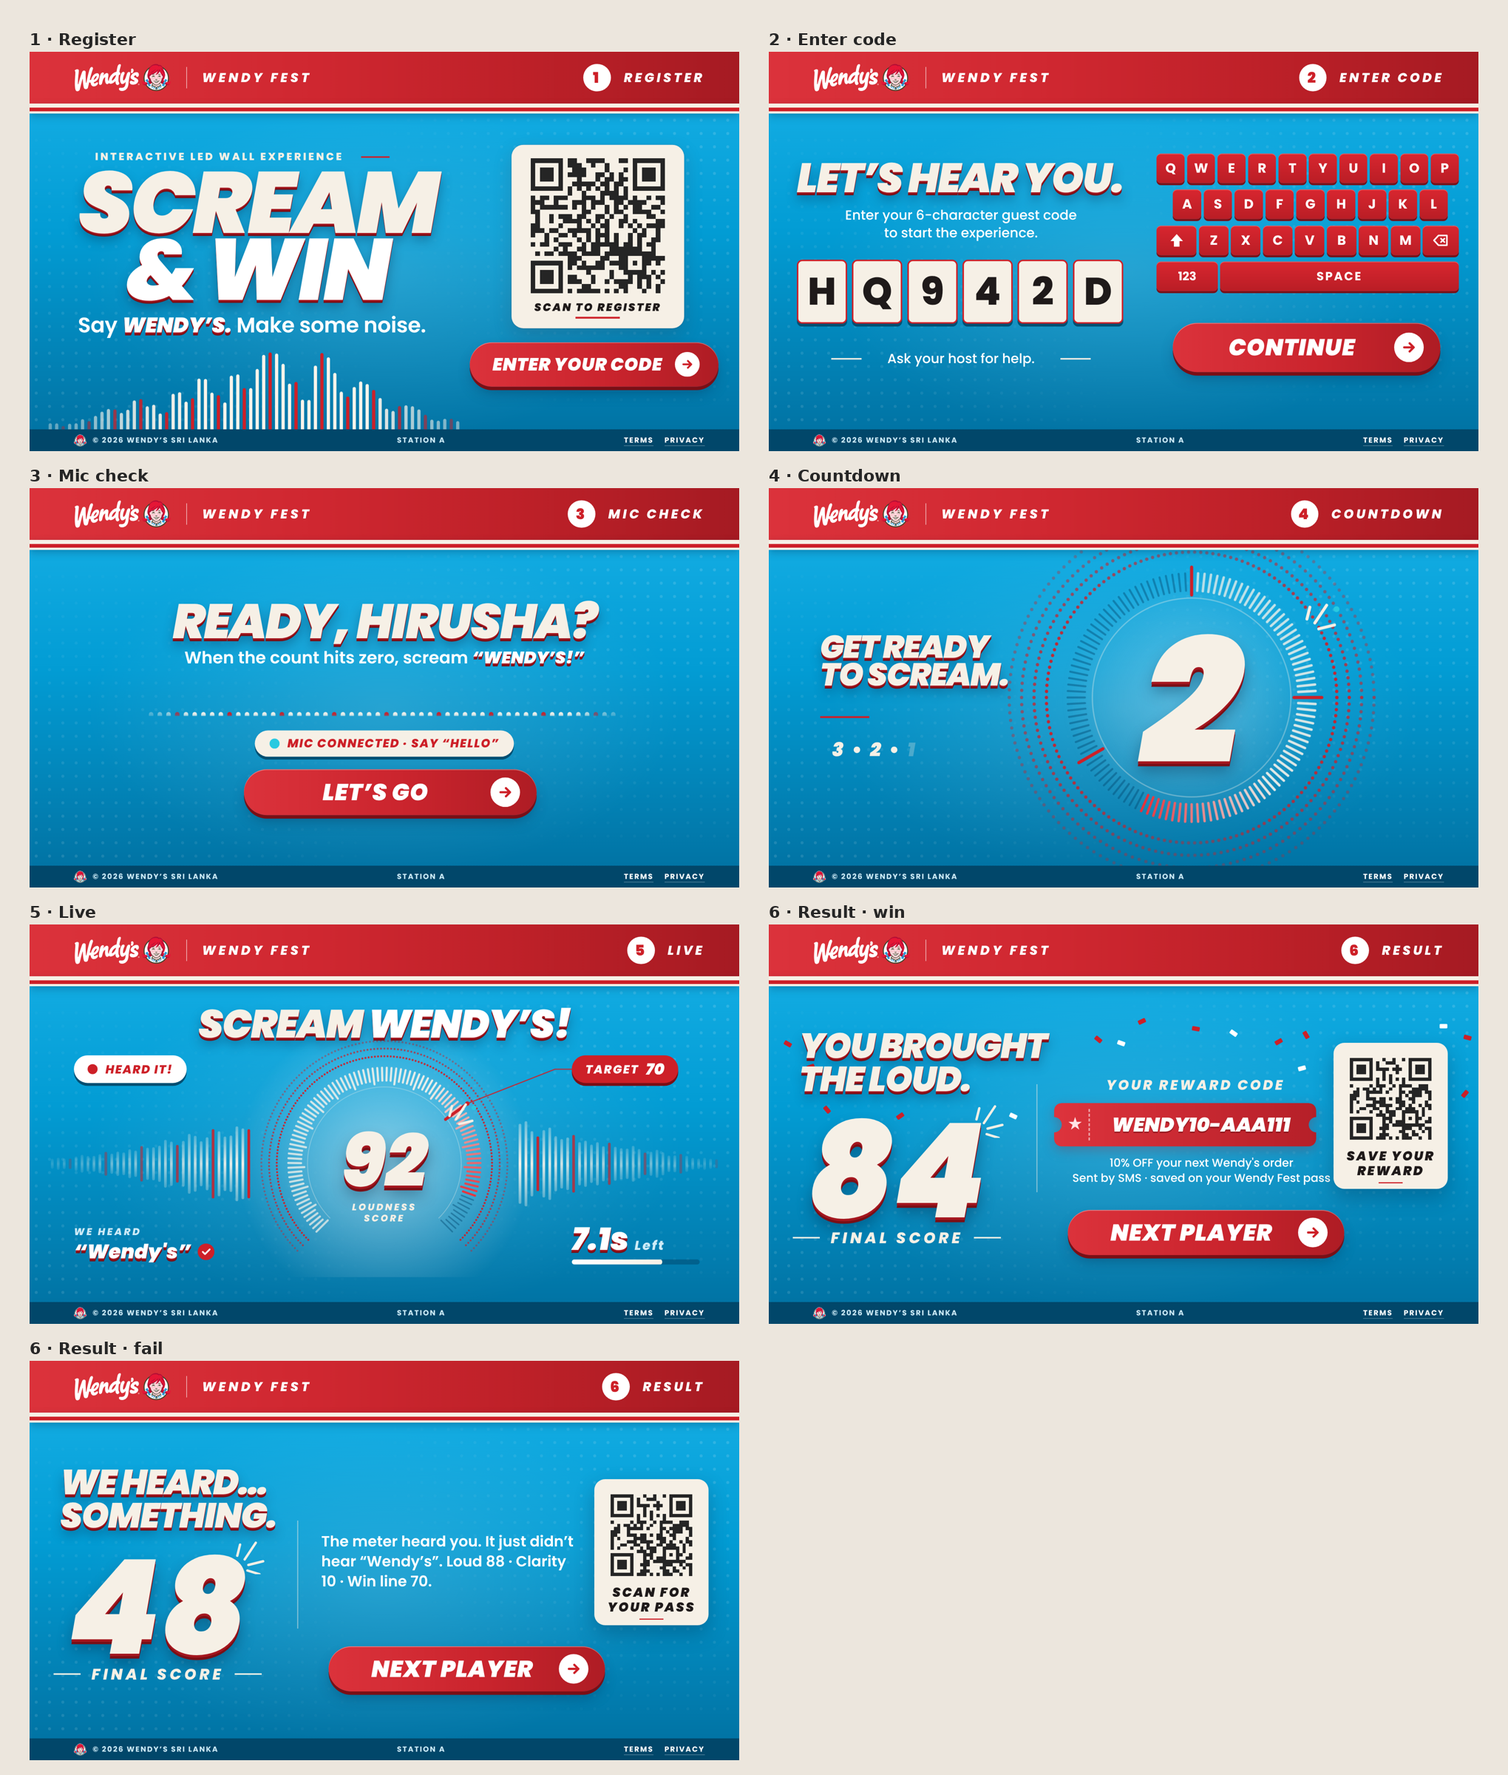
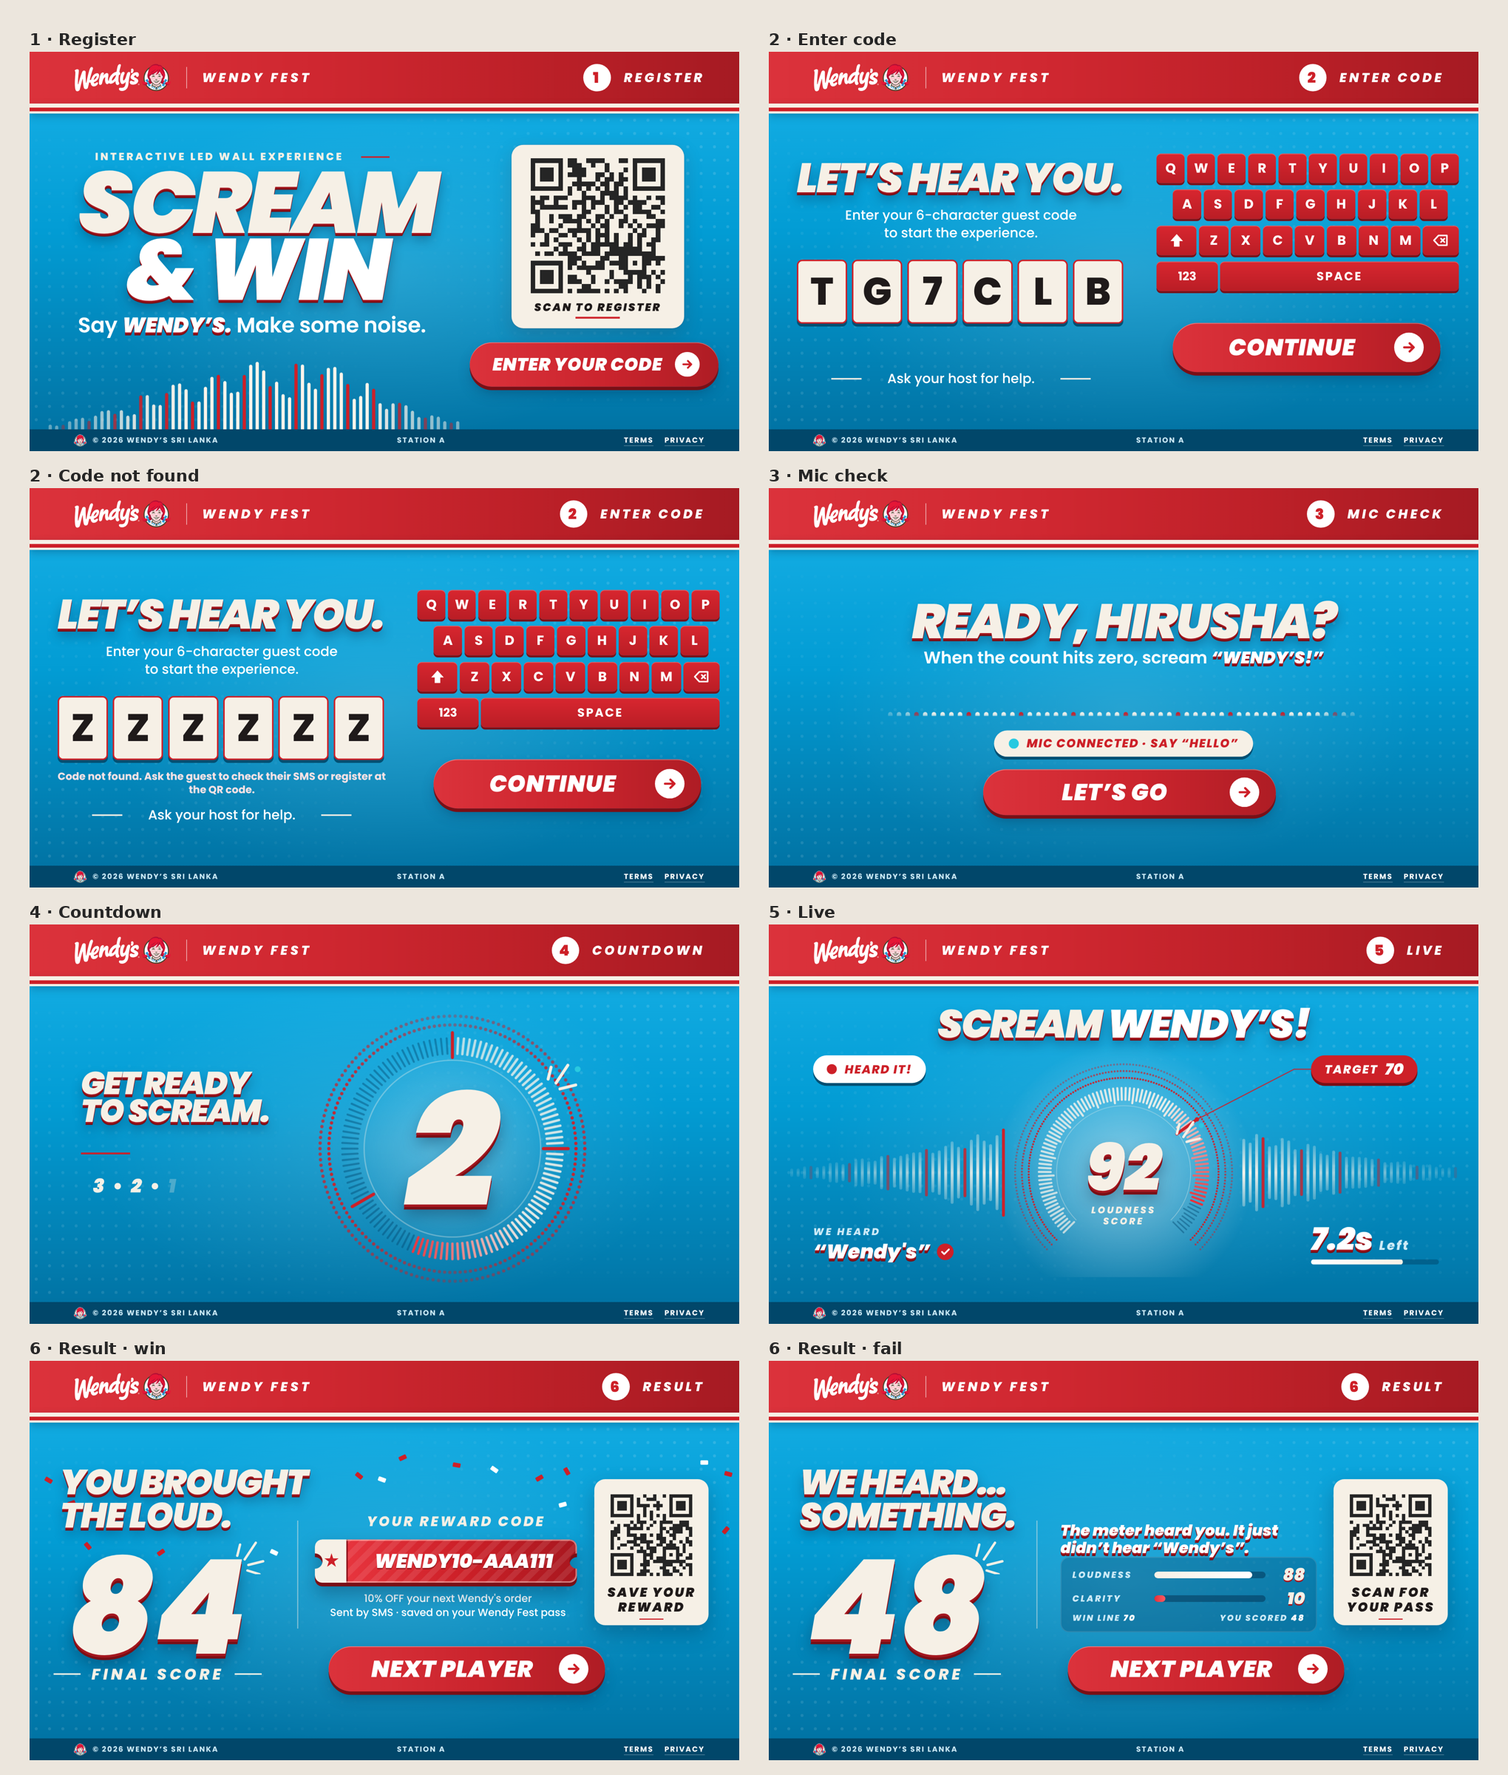
Retro Blue: spacing fixes (code message row, smaller lower gauges), result breakdown with loudness/clarity meters, colourful reward ticket with stub, stripes and shine
Claude-Session: https://claude.ai/code/session_015MHPvZ3kkn8jw5YatKY7r4

diff --git a/public/kiosk/scream-cream.html b/public/kiosk/scream-cream.html
@@ -89,8 +89,8 @@ body { margin:0; background:var(--cream); color:var(--ink); font-family:Poppins,
 .boxes i { width:calc(102 * var(--u)); height:calc(130 * var(--u)); border-radius:calc(11 * var(--u)); background:#fff; border:calc(3 * var(--u)) solid var(--red); color:#1F1A1A; display:grid; place-items:center; font:800 calc(78 * var(--u))/1 Poppins, sans-serif; font-style:normal; box-shadow:0 calc(4 * var(--u)) calc(10 * var(--u)) rgba(205,32,40,.08); }
 .boxes i.cur { box-shadow:0 0 0 calc(5 * var(--u)) rgba(205,32,40,.18); }
 .boxes i.err { animation:shake .4s; background:var(--blush); }
-#s-code .msg { left:calc(57 * var(--u)); width:calc(666 * var(--u)); top:calc(405 * var(--u)); text-align:center; font:700 calc(24 * var(--u))/1 Poppins, sans-serif; color:var(--red); min-height:0; }
-#s-code .ask { left:calc(57 * var(--u)); width:calc(666 * var(--u)); top:calc(452 * var(--u)); font:500 calc(27 * var(--u))/1 Poppins, sans-serif; color:#1F1A1A; gap:calc(52 * var(--u)); }
+#s-code .msg { left:calc(57 * var(--u)); width:calc(666 * var(--u)); top:calc(414 * var(--u)); text-align:center; font:700 calc(21 * var(--u))/1.3 Poppins, sans-serif; color:var(--red); min-height:0; }
+#s-code .ask { left:calc(57 * var(--u)); width:calc(666 * var(--u)); top:calc(492 * var(--u)); font:500 calc(27 * var(--u))/1 Poppins, sans-serif; color:#1F1A1A; gap:calc(52 * var(--u)); }
 #s-code .ask::before, #s-code .ask::after { width:calc(62 * var(--u)); }
 .kbd { position:absolute; left:calc(787 * var(--u)); top:calc(49 * var(--u)); width:calc(613 * var(--u)); display:grid; gap:calc(13 * var(--u)); }
 .kbd .krow { display:flex; gap:calc(5 * var(--u)); height:calc(60 * var(--u)); }
@@ -114,14 +114,14 @@ body { margin:0; background:var(--cream); color:var(--ink); font-family:Poppins,
 #go-count .rule { left:calc(104 * var(--u)); top:calc(277 * var(--u)); width:calc(100 * var(--u)); height:calc(4 * var(--u)); background:var(--red); }
 .dots { position:absolute; left:calc(128 * var(--u)); top:calc(325 * var(--u)); font:italic 900 calc(39 * var(--u))/1 Poppins, sans-serif; color:#1F1A1A; letter-spacing:.06em; white-space:nowrap; }
 .dots span { opacity:.28; transition:opacity .2s; } .dots span.on { opacity:1; } .dots em { font-style:normal; margin:0 calc(14 * var(--u)); }
-#ring-count { left:calc(458 * var(--u)); top:calc(-161 * var(--u)); width:calc(800 * var(--u)); height:calc(800 * var(--u)); }
-#cnt { left:calc(558 * var(--u)); top:calc(66 * var(--u)); width:calc(600 * var(--u)); text-align:center; font:italic 900 calc(360 * var(--u))/1 Poppins, sans-serif; color:var(--red); text-shadow:0 calc(8 * var(--u)) 0 #8E1219, 0 calc(18 * var(--u)) calc(30 * var(--u)) rgba(120,20,30,.18); }
+#ring-count { left:calc(458 * var(--u)); top:calc(-131 * var(--u)); width:calc(800 * var(--u)); height:calc(800 * var(--u)); }
+#cnt { left:calc(558 * var(--u)); top:calc(110 * var(--u)); width:calc(600 * var(--u)); text-align:center; font:italic 900 calc(325 * var(--u))/1 Poppins, sans-serif; color:var(--red); text-shadow:0 calc(8 * var(--u)) 0 #8E1219, 0 calc(18 * var(--u)) calc(30 * var(--u)) rgba(120,20,30,.18); }
 /* live */
 #go-meter { height:calc(560 * var(--u)); }
 #live-cv { left:0; top:0; width:calc(1440 * var(--u)); height:calc(560 * var(--u)); }
 #go-meter .crow { top:calc(6 * var(--u)); }
-#gauge-num { left:calc(560 * var(--u)); width:calc(320 * var(--u)); top:calc(248 * var(--u)); text-align:center; font:italic 900 calc(150 * var(--u))/1 Poppins, sans-serif; color:var(--red); text-shadow:0 calc(4 * var(--u)) 0 #8E1219, 0 calc(8 * var(--u)) 0 #5E0B10, 0 calc(16 * var(--u)) calc(28 * var(--u)) rgba(150,20,30,.25); }
-#go-meter .lbl { left:calc(570 * var(--u)); width:calc(300 * var(--u)); top:calc(406 * var(--u)); text-align:center; font:italic 800 calc(19 * var(--u))/1.2 Poppins, sans-serif; letter-spacing:.2em; text-transform:uppercase; color:#1F1A1A; }
+#gauge-num { left:calc(560 * var(--u)); width:calc(320 * var(--u)); top:calc(272 * var(--u)); text-align:center; font:italic 900 calc(132 * var(--u))/1 Poppins, sans-serif; color:var(--red); text-shadow:0 calc(4 * var(--u)) 0 #8E1219, 0 calc(8 * var(--u)) 0 #5E0B10, 0 calc(16 * var(--u)) calc(28 * var(--u)) rgba(150,20,30,.25); }
+#go-meter .lbl { left:calc(570 * var(--u)); width:calc(300 * var(--u)); top:calc(412 * var(--u)); text-align:center; font:italic 800 calc(19 * var(--u))/1.2 Poppins, sans-serif; letter-spacing:.2em; text-transform:uppercase; color:#1F1A1A; }
 #go-meter .pillx { left:calc(90 * var(--u)); top:calc(110 * var(--u)); height:calc(56 * var(--u)); padding:0 calc(28 * var(--u)); border:calc(3 * var(--u)) solid var(--red); font-size:calc(24 * var(--u)); box-shadow:0 calc(8 * var(--u)) calc(20 * var(--u)) rgba(205,32,40,.12); }
 #go-meter .pillx .dot { animation:ping 1.1s infinite; }
 @keyframes ping { 0% { box-shadow:0 0 0 0 rgba(205,32,40,.55); } 70% { box-shadow:0 0 0 calc(12 * var(--u)) rgba(205,32,40,0); } 100% { box-shadow:0 0 0 0 rgba(205,32,40,0); } }
@@ -133,7 +133,7 @@ body { margin:0; background:var(--cream); color:var(--ink); font-family:Poppins,
 #go-meter .tleft .v small { font:italic 800 calc(26 * var(--u))/1 Poppins, sans-serif; letter-spacing:.12em; color:#1F1A1A; }
 #go-meter .tbar { width:calc(260 * var(--u)); height:calc(10 * var(--u)); border-radius:999px; background:rgba(205,32,40,.14); overflow:hidden; }
 #go-meter .tbar i { display:block; height:100%; background:linear-gradient(90deg, #E0303A, #B51F28); border-radius:999px; transform-origin:left; }
-#live-burst { left:calc(842 * var(--u)); top:calc(200 * var(--u)); width:calc(66 * var(--u)); height:calc(66 * var(--u)); transform-origin:0 100%; transition:scale .18s cubic-bezier(.3,1.6,.6,1), opacity .18s; }
+#live-burst { left:calc(818 * var(--u)); top:calc(236 * var(--u)); width:calc(66 * var(--u)); height:calc(66 * var(--u)); transform-origin:0 100%; transition:scale .18s cubic-bezier(.3,1.6,.6,1), opacity .18s; }
 #live-burst.off { scale:.4; opacity:0; }
 #trans { display:none; }
 /* result */
@@ -146,7 +146,7 @@ body { margin:0; background:var(--cream); color:var(--ink); font-family:Poppins,
 #res-coupon { left:calc(579 * var(--u)); top:calc(136 * var(--u)); width:calc(560 * var(--u)); display:grid; }
 #res-coupon .lbl { margin-left:calc(13 * var(--u)); font:italic 800 calc(28 * var(--u))/1 Poppins, sans-serif; letter-spacing:.15em; text-transform:uppercase; color:#1F1A1A; }
 #res-code { margin-top:calc(22 * var(--u)); width:calc(532 * var(--u)); height:calc(88 * var(--u)); box-sizing:border-box; border:calc(3 * var(--u)) solid var(--red); border-radius:calc(15 * var(--u)); background:#fff; display:grid; place-items:center; font:italic 900 calc(47 * var(--u))/1 Poppins, sans-serif; color:var(--red); letter-spacing:0; box-shadow:0 calc(6 * var(--u)) calc(16 * var(--u)) rgba(205,32,40,.1); }
-#res-coupon small { margin-left:calc(37 * var(--u)); font:500 calc(23 * var(--u))/1.35 Poppins, sans-serif; color:#1F1A1A; white-space:nowrap; }
+#res-coupon small { margin-left:0; width:calc(540 * var(--u)); max-width:none; text-align:center; font:500 calc(21 * var(--u))/1.35 Poppins, sans-serif; color:#1F1A1A; white-space:normal; }
 #res-coupon small:first-of-type { margin-top:calc(18 * var(--u)); }
 #res-detail { left:calc(592 * var(--u)); top:calc(170 * var(--u)); width:calc(520 * var(--u)); text-align:left; font:600 calc(30 * var(--u))/1.35 Poppins, sans-serif; color:#1F1A1A; }
 #s-result .qrcard { position:absolute; left:calc(1146 * var(--u)); top:calc(64 * var(--u)); width:calc(232 * var(--u)); height:calc(296 * var(--u)); padding:calc(24 * var(--u)) 0 0; box-sizing:border-box; border-radius:calc(22 * var(--u)); gap:calc(12 * var(--u)); align-content:start; }
@@ -224,7 +224,7 @@ body { margin:0; background:var(--cream); color:var(--ink); font-family:Poppins,
 @keyframes enterUp { from { opacity:0; translate:0 calc(28 * var(--u)); } to { opacity:1; translate:0 0; } }
 #cnt.pop { animation:numPop .5s cubic-bezier(.3,1.5,.5,1) both; }
 @keyframes numPop { from { scale:1.4; opacity:.2; } to { scale:1; opacity:1; } }
-#cd-burst { left:calc(1080 * var(--u)); top:calc(40 * var(--u)); width:calc(80 * var(--u)); height:calc(80 * var(--u)); transform-origin:0 100%; }
+#cd-burst { left:calc(1040 * var(--u)); top:calc(88 * var(--u)); width:calc(80 * var(--u)); height:calc(80 * var(--u)); transform-origin:0 100%; }
 #cd-burst.pop { animation:burstIn .45s cubic-bezier(.3,1.6,.6,1) both; }
 @keyframes burstIn { from { scale:.3; opacity:0; } to { scale:1; opacity:1; } }
 #s-result .enter > .spark { animation:burstIn .45s .75s cubic-bezier(.3,1.6,.6,1) both; transform-origin:0 100%; }
@@ -291,6 +291,31 @@ body { color:#fff; }
 .texB i.bl { left:0; bottom:calc(44 * var(--u));
   background:radial-gradient(circle, rgba(255,255,255,.12) calc(2.8 * var(--u)), transparent calc(3.4 * var(--u))) 0 0 / calc(27 * var(--u)) calc(27 * var(--u));
   -webkit-mask:radial-gradient(circle at 0 100%, #000 0, rgba(0,0,0,.75) 28%, transparent 72%); mask:radial-gradient(circle at 0 100%, #000 0, rgba(0,0,0,.75) 28%, transparent 72%); }
+
+/* result breakdown: punchy line + loudness / clarity meters */
+#res-detail { top:calc(150 * var(--u)) !important; width:calc(520 * var(--u)) !important; display:grid; gap:calc(20 * var(--u)); }
+#res-detail .quip { font:italic 900 calc(31 * var(--u))/1.15 Poppins, sans-serif; color:#fff; text-transform:none; text-shadow:0 calc(3 * var(--u)) 0 #A5171F, 0 calc(6 * var(--u)) 0 #7A0F16; }
+#res-detail .stats { display:grid; gap:calc(14 * var(--u)); padding:calc(20 * var(--u)) calc(24 * var(--u)); border-radius:calc(18 * var(--u)); background:rgba(0,50,85,.28); box-shadow:inset 0 0 0 calc(2 * var(--u)) rgba(255,255,255,.12); }
+#res-detail .st { display:grid; grid-template-columns:calc(150 * var(--u)) 1fr calc(64 * var(--u)); align-items:center; gap:calc(16 * var(--u)); }
+#res-detail .st small { font:italic 800 calc(18 * var(--u))/1 Poppins, sans-serif; letter-spacing:.18em; text-transform:uppercase; color:#CDEBF7; }
+#res-detail .st i { position:relative; height:calc(14 * var(--u)); border-radius:999px; background:rgba(0,40,70,.45); overflow:hidden; }
+#res-detail .st i em { position:absolute; left:0; top:0; bottom:0; border-radius:999px; background:linear-gradient(90deg, #F6F0E6, #fff); transition:width .9s cubic-bezier(.2,.9,.3,1); }
+#res-detail .st.low i em { background:linear-gradient(90deg, #E0303A, #FF5A62); }
+#res-detail .st b { font:italic 900 calc(34 * var(--u))/1 Poppins, sans-serif; color:#F6F0E6; text-align:right; text-shadow:0 calc(3 * var(--u)) 0 #A5171F; }
+#res-detail .wl { font:italic 800 calc(17 * var(--u))/1 Poppins, sans-serif; letter-spacing:.16em; text-transform:uppercase; color:#CDEBF7; display:flex; justify-content:space-between; }
+#res-detail .wl b { color:#fff; }
+
+/* reward ticket, colourful: cream stub + red star, striped red body, cream inner edge, slow shine */
+#res-code { background:
+    linear-gradient(105deg, transparent 38%, rgba(255,255,255,.38) 50%, transparent 62%) -150% 0 / 220% 100% no-repeat,
+    linear-gradient(90deg, #F6F0E6 0 calc(64 * var(--u)), #8E141B calc(64 * var(--u)) calc(67 * var(--u)), transparent calc(67 * var(--u))),
+    repeating-linear-gradient(-45deg, rgba(255,255,255,.09) 0 calc(12 * var(--u)), transparent calc(12 * var(--u)) calc(24 * var(--u))),
+    linear-gradient(90deg, #EE3A44 0%, #CD2028 55%, #A8171F 100%) !important;
+  box-shadow:inset 0 0 0 calc(3 * var(--u)) rgba(255,240,230,.45) !important; padding-left:calc(72 * var(--u)) !important; animation:shine 3.2s ease-in-out 1s infinite; }
+@keyframes shine { 0% { background-position:-150% 0, 0 0, 0 0, 0 0; } 55%, 100% { background-position:250% 0, 0 0, 0 0, 0 0; } }
+#res-code::before { left:calc(64 * var(--u)) !important; border-left:calc(3 * var(--u)) dashed rgba(142,20,27,.55) !important; top:calc(10 * var(--u)) !important; bottom:calc(10 * var(--u)) !important; }
+#res-code::after { color:#CD2028 !important; left:calc(18 * var(--u)) !important; font-size:calc(30 * var(--u)) !important; }
+.tkt { filter:drop-shadow(0 calc(8 * var(--u)) 0 #7A0F16) drop-shadow(0 calc(16 * var(--u)) calc(18 * var(--u)) rgba(0,40,70,.35)); }
 </style>
 </head>
 <body>
@@ -546,7 +571,7 @@ body { color:#fff; }
     if (!c._sized) sizeCanvas(c);
     const ctx = c.getContext("2d"), W = c.width, H = c.height, U = W / 1440, cr = c.getBoundingClientRect(), k = W / (cr.width || 1); ctx.clearRect(0, 0, W, H);
     if (analyser && fbuf) analyser.getByteFrequencyData(fbuf);
-    const cx = 720 * U, cy = 330 * U, R = 195 * U, len = 26 * U, a0 = Math.PI * .75, span = Math.PI * 1.5, thr = (CFG.scream.threshold || 70) / 100;
+    const cx = 720 * U, cy = 348 * U, R = 172 * U, len = 24 * U, a0 = Math.PI * .75, span = Math.PI * 1.5, thr = (CFG.scream.threshold || 70) / 100;
     const g = ctx.createRadialGradient(cx, cy, R * .1, cx, cy, R * 1.55); g.addColorStop(0, `rgba(255,255,255,${(.14 + .3 * level).toFixed(2)})`); g.addColorStop(1, "rgba(255,255,255,0)");
     ctx.fillStyle = g; ctx.beginPath(); ctx.arc(cx, cy, R * 1.55, 0, 7); ctx.fill();
     const wave = (x0, x1, innerRight) => { const n = 34, gap = (x1 - x0) / n, w = gap * .45;
@@ -588,11 +613,11 @@ body { color:#fff; }
   // ---------- cream LED countdown ring ----------
   function drawCountRing(c, pct) {
     if (!c._sized) sizeCanvas(c);
-    const ctx = c.getContext("2d"), W = c.width, cx = W / 2, cy = c.height / 2, R = W * .315; ctx.clearRect(0, 0, W, c.height);
+    const ctx = c.getContext("2d"), W = c.width, cx = W / 2, cy = c.height / 2, R = W * .28; ctx.clearRect(0, 0, W, c.height);
     const glow = ctx.createRadialGradient(cx, cy, R * .2, cx, cy, R * 1.05); glow.addColorStop(0, "rgba(255,255,255,.22)"); glow.addColorStop(1, "rgba(255,255,255,0)");
     ctx.fillStyle = glow; ctx.beginPath(); ctx.arc(cx, cy, R * 1.05, 0, 7); ctx.fill();
-    for (let k = 0; k < 4; k++) {                                   // faint dotted outer rings, strongest at the sides
-      const r = R * (1.17 + k * .1), dr = W * .0042;
+    for (let k = 0; k < 2; k++) {                                   // red dotted outer rings, strongest at the sides
+      const r = R * (1.12 + k * .08), dr = W * .0042;
       for (let d = 0; d < 360; d += 2.4) { const th = d * Math.PI / 180, side = Math.abs(Math.cos(th)); const a = (.95 - k * .18) * (.45 + .55 * side);
         ctx.fillStyle = `rgba(205,32,40,${a.toFixed(3)})`; ctx.beginPath(); ctx.arc(cx + Math.cos(th) * r, cy + Math.sin(th) * r, dr, 0, 7); ctx.fill(); }
     }
@@ -750,6 +775,11 @@ body { color:#fff; }
   // static confetti positions measured from the reference result screen
   [[35,85,"#CD2028",30],[60,110,"#CD2028",-20],[78,158,"#CD2028",50],[160,165,"#CD2028",-35],[380,80,"#CD2028",40],[405,84,"#FFFFFF",20],[428,60,"#CD2028",-25],[488,68,"#CD2028",10],[530,73,"#FFFFFF",35],[580,82,"#CD2028",-30],[610,75,"#CD2028",60],[606,112,"#FFFFFF",-15],[285,165,"#FFFFFF",25],[763,65,"#FFFFFF",0],[790,78,"#CD2028",15],[787,140,"#CD2028",-50]]
     .forEach(([x, y, col, rot]) => { const i = document.createElement("i"); i.style.cssText = `left:calc(${((x - 18) * 1.827).toFixed(0)} * var(--u));top:calc(${((y - 51) * 1.827).toFixed(0)} * var(--u));background:${col};transform:rotate(${rot}deg)`; $("res-conf").appendChild(i); });
+  function renderDetail(quip, r) {
+    const row = (k, v) => `<div class="st${v < 40 ? " low" : ""}"><small>${k}</small><i><em style="width:0%" data-w="${v}"></em></i><b>${v}</b></div>`;
+    $("res-detail").innerHTML = `<div class="quip">${quip}</div><div class="stats">${row("Loudness", r.loudness)}${row("Clarity", r.accuracy)}<div class="wl"><span>Win line <b>${r.threshold}</b></span><span>You scored <b>${r.score}</b></span></div></div>`;
+    setTimeout(() => $("res-detail").querySelectorAll("em").forEach((e) => { e.style.width = e.dataset.w + "%"; }), 350);
+  }
   function showResult(r) {
     mode = "result"; K.show("s-result");
     { const el = $("res-score"), to = +r.score || 0, t0 = performance.now(); el.textContent = "0"; el.classList.remove("pop");
@@ -758,13 +788,13 @@ body { color:#fff; }
     $("res-coupon").style.display = r.coupon ? "grid" : "none"; $("res-detail").style.display = r.coupon ? "none" : "block"; $("res-conf").style.display = r.won ? "block" : "none";
     if (r.won) {
       $("res-title").textContent = r.couponPoolEmpty ? "You beat the meter!" : "You brought the loud.";
-      $("res-detail").textContent = r.couponPoolEmpty ? "Reward pool is empty – see a host." : `Loud ${r.loudness} · Clarity ${r.accuracy} · Win line ${r.threshold}. Fresh, never frozen, just like that scream.`;
+      renderDetail(r.couponPoolEmpty ? "You won! The reward pool is empty, so please see a host." : "Fresh, never frozen. Just like that scream.", r);
       if (r.coupon) { $("res-code").textContent = r.coupon.code; $("res-label").textContent = r.coupon.label; }
       $("qr-label").innerHTML = "Save your<br>reward";
       $("flash").classList.remove("go"); void $("flash").offsetWidth; $("flash").classList.add("go"); confetti();
     } else {
       $("res-title").textContent = r.loudness < r.accuracy ? "Louder next time." : "We heard… something.";
-      $("res-detail").textContent = (r.accuracy < 40 ? "The meter heard you. It just didn’t hear “Wendy’s”. " : "Close one. Colombo traffic is louder. ") + `Loud ${r.loudness} · Clarity ${r.accuracy} · Win line ${r.threshold}.`;
+      renderDetail(r.loudness < 40 ? "Louder! Colombo traffic is louder than that." : r.accuracy < 40 ? "The meter heard you. It just didn’t hear “Wendy’s”." : "So close. One more “Wendy’s” and it’s yours.", r);
       $("qr-label").innerHTML = "Scan for<br>your pass";
     }
     $("qr-profile").src = `/api/qr?text=${encodeURIComponent(r.profileUrl)}`;
